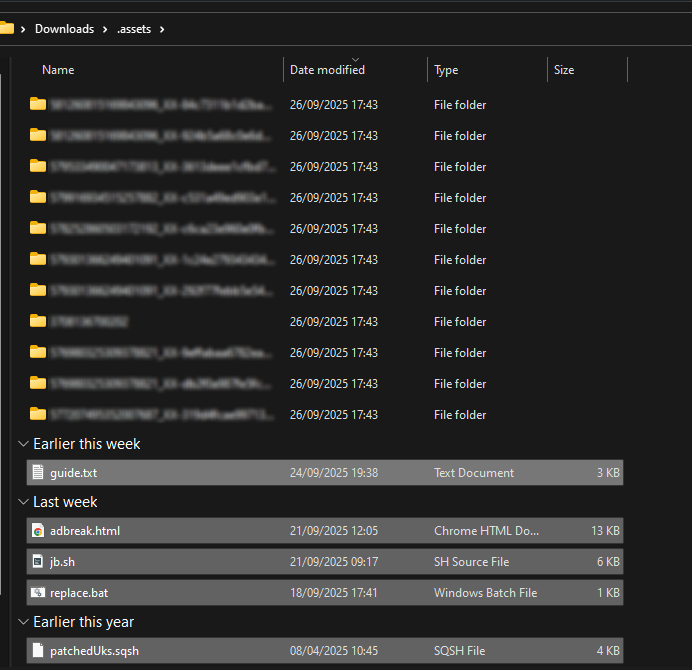
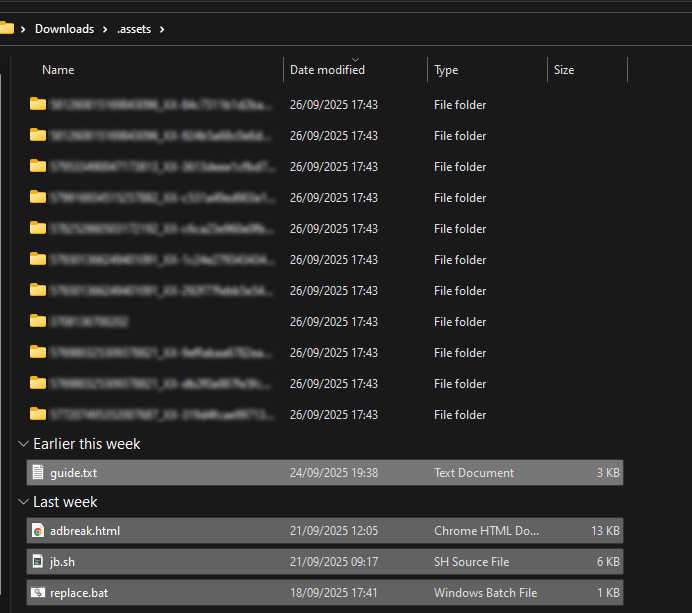
Add warning modals, post-jb notices, OTA advice, unjb advice

diff --git a/static/assets/js/global.js b/static/assets/js/global.js
@@ -20,31 +20,48 @@ const registerServiceWorker = async () => {
 registerServiceWorker();
 
 //Modal Functions
-function showDialog(id) {
-    const modal = document.getElementById(id);
-    if (!modal) {
-        console.error(`Modal with ID "${id}" not found!`);
-        return;
-    }
+function showDialog(title, description) {
+    //Build Modal (from Scratch)
+    const overlay = document.createElement("div");
+    overlay.classList.add("modal-overlay");
+    document.body.appendChild(overlay);
 
-    const overlay = modal.closest(".modal-overlay");
-    if (overlay) {
-        overlay.classList.add("active");
-        document.body.style.overflow = "hidden";
+    const modal = document.createElement("div");
+    modal.classList.add("modal-container");
+    overlay.appendChild(modal);
 
-        const escHandler = (e) => {
-            if (e.key === "Escape") {
-                closeDialog(id);
-                window.removeEventListener("keydown", escHandler);
-            }
-        };
-        window.addEventListener("keydown", escHandler);
-    }
+    const header = document.createElement("div");
+    header.classList.add("modal-header");
+    const mTitle = document.createElement("h2");
+    mTitle.innerHTML = title; header.appendChild(mTitle);
+    modal.appendChild(header);
+
+    const body = document.createElement("div");
+    body.classList.add("modal-body");
+    const mDesc = document.createElement("p");
+    mDesc.innerHTML = description; body.appendChild(mDesc);
+    modal.appendChild(body);
+
+    const footer = document.createElement("div");
+    footer.classList.add("modal-footer");
+    const close = document.createElement("button");
+    close.onclick = () => closeDialog(); close.innerHTML = "CLOSE"; footer.appendChild(close);
+    modal.appendChild(footer);
+
+    overlay.classList.add("active");
+    document.body.style.overflow = "hidden";
+
+    const escHandler = (e) => {
+        if (e.key === "Escape") {
+            closeDialog();
+            window.removeEventListener("keydown", escHandler);
+        }
+    };
+    window.addEventListener("keydown", escHandler);
 }
 
-function closeDialog(id) {
-    const modal = document.getElementById(id);
-    if (!modal) return;
+function closeDialog() {
+    const modal = document.querySelector(".modal-container");
 
     const overlay = modal.closest(".modal-overlay");
     if (overlay) {
@@ -55,9 +72,6 @@ function closeDialog(id) {
 
 document.addEventListener("click", (e) => {
     if (e.target.classList.contains("modal-overlay")) {
-        const activeModal = e.target.querySelector(".modal-container");
-        if (activeModal) {
-            closeDialog(activeModal.id);
-        }
+        closeDialog();
     }
 });

diff --git a/static/assets/js/fluent_guide.js b/static/assets/js/fluent_guide.js
@@ -7,6 +7,14 @@
 
 class Guide {
     constructor(guideID="guide", endLink=null, endText=null) {
+        const readLander = localStorage.getItem("readLander");
+        if(!readLander) {
+            showDialog(
+                "Halt!",
+                `We have detected <b>you have not</b> read the <a href="/jailbreaking/">jailbreaking lander</a> informational page yet, and are on a page with a guide.<br>Please head over there now, and this warning will clear. <p class="caution"><b>Do NOT expect any support otherwise.</b></p>`
+            );
+        };
+
         this.guideID = guideID;
         this.endText = endText;
         this.endLink = endLink;

diff --git a/static/jailbreakFinder.js b/static/jailbreakFinder.js
@@ -1,3 +1,12 @@
+//Alert Modal
+const readLander = localStorage.getItem("readLander");
+if(!readLander) {
+    showDialog(
+        "Halt!",
+        `We have detected <b>you have not</b> read the <a href="/jailbreaking/">jailbreaking lander</a> informational page yet, and are trying to find your jailbreak.<br>Please head over there now, and the warning will clear. <p class="caution"><b>Do NOT expect any support otherwise.</b></p>`
+    );
+};
+
 window.info = {};
 let current = document.querySelector("#home");
 

diff --git a/content/jailbreaking/_index.md b/content/jailbreaking/_index.md
@@ -30,6 +30,11 @@ Here are some important things to note before you begin. This information applie
     After the jailbreak, many different tools get <i>automagically</i> installed for you, which for the most part, you will not have to interact with. This includes update blocking so the jailbreak does not get removed, a package manager, etc. Once you're jailbroken you can begin installing your own software right out of the park using the inbuilt package manager. You will be guided through this in the "What's Next?" section, after you jailbroke.
 </p>
 
+<p class="warning" style="filter: hue-rotate(150deg);">
+    <b>Can I remove the Jailbreak?</b><br>
+    Yes. If you wish to remove the jailbreak, you must run <a href="./ota.sh" download>this</a> scriptlet (<a href="whats-next/installing-homebrew.html">'scriptlet' term definition</a>), factory reset the device, then push an update (whether it be to the same firmware, you can download an update file from <a href="https://ftvdb.com/kindle/firmware/">FTVDB</a>, place it in the Kindle's root and hit the update button). After this, <b>every trace</b> of the Jailbreak will be removed.
+</p>
+
 <p class="caution">
     <b>Who can I ask for help?</b><br>
     When in doubt, please consult someone on the official <a href="https://discord.kindlemodding.org/">KindleModding Discord</a>, or <a href="https://discord.gg/yWPHHbrp7h">KindleTweaks</a>. <a href="https://www.reddit.com/r/kindlejailbreak/">r/kindlejailbreak</a> on Reddit is also an available option, although a community resource. <b>Do not perform dangerous actions such as a Factory Reset without an experienced person's advice (e.g., KindleModding Helpers)</b>.
@@ -63,3 +68,7 @@ Also, for those who are curious (<b>or do not actually know what a jailbreak can
 - Certain tweaks could cause <i>lag/performance issues</i>, but this isn't because of jailbreak itself.
 - Everyone will know you as "that weird person who jailbroke their Kindle and plays doom on it" (did I mention it plays doom?)
 - You will inevitably deal with vexing people who have not read the above page which outlines basic jailbreaking concepts.
+
+<script>
+    if(!localStorage.getItem("readLander")) localStorage.setItem("readLander", true);
+</script>

diff --git a/content/jailbreaking/Nosebleed/__index.md b/content/jailbreaking/Nosebleed/__index.md
@@ -57,7 +57,7 @@ Nosebleed is a jailbreak released on 02/03/2026 by hhhhhhhhh.
         <div class="step">
             <h2>Extract & Copy</h2>
             <div class="stepContent">
-                <p>Plug in the Kindle, Extract <code>nosebleed.zip</code> on your PC, and copy the three files within to your Kindle's root (top folder when connected).</p>
+                <p>Plug in the Kindle, Extract <code>nosebleed.zip</code> on your PC, and copy the two files within to your Kindle's root (top folder when connected).</p>
                 <img src="./copy_assets.png" /> 
             </div>
         </div>
@@ -83,9 +83,17 @@ Nosebleed is a jailbreak released on 02/03/2026 by hhhhhhhhh.
             </div>
         </div>
         <div class="step">
-            <h2>Done</h2>
+            <h2>After Jailbreaking...</h2>
             <div class="stepContent">
-                <p>Once the jailbreak has completed, continue to the post-jailbreak stage.</p>
+                <div class="tip">
+                    <b>What's Next?</b><br>
+                    Commence to the <a href="../whats-next">What's Next</a> section to read about installing scriptlets, homebrew, and KOReader.<br>Read the <b>whole section</b> thoroughly.
+                </div>
+                <div class="caution">
+                    You may now <b>delete</b> any filler files. Updates have been automatically blocked for you.<br><br>
+                    Before you do this, also <b>remove any existing update files with a <code>.bin</code> extension</b>, if they exist in the Kindle's root.
+                </div>
+                <p>Have fun! :)</p>
             </div>
         </div>
     </div>

diff --git a/content/jailbreaking/recovering-from-a-reset.md b/content/jailbreaking/recovering-from-a-reset.md
@@ -6,18 +6,11 @@ weight: 12
 ---
 
 # Recovering From a Reset
-Factory resetting a jailbroken Kindle with renametobin (`Rename`) left enabled will make it impossible to install either the hotfix or official update files. To fix this, follow these steps:
 
-1. Follow the [MRPI and KUAL installation instructions](./post-jailbreak/installing-kual-mrpi/)
-2. Install the Hotfix through MRPI (copy the [hotfix](../jailbreaking/post-jailbreak/setting-up-a-hotfix/) file to the `mrpackages` folder and type `;log mrpi` into the search bar)
-3. Click the `Run Hotfix` booklet  
-2. Follow the [Disable OTA instructions](./post-jailbreak/disable-ota.html)
-3. Instead of choosing the `Rename` option, use the `Restore` option
+Factory resetting a jailbroken Kindle means it has updates blocked and you will never be able to install official update files (<b>crucial</b> for removing all traces of a jailbreak on a Kindle). See the <a href="/jailbreaking/">jailbreaking lander</a> for more information.
 
-<p class="note">
-If you come from an un-jailbreak attempt, you can also force an update by copying the firmware update file to your Kindle and, while still plugged in, hold down the power button until it restarts
-</p>
+In order to restore the Kindle's ability to update, please install <a href="./ota.sh" download>this</a> scriptlet.
 
-<p class="caution">
-Remember that performing a factory reset followed by an update will remove any jailbreak remnants
-</p>
+<div class="note">
+    Scriptlets, and how to install them, are explained <a href="/jailbreaking/whats-next/installing-homebrew.html">here</a>.
+</div>

diff --git a/content/jailbreaking/SpringBreak/__index.md b/content/jailbreaking/SpringBreak/__index.md
@@ -24,7 +24,7 @@ You can read the writeup [here](https://penguins184.xyz/blog/springbreak-jailbre
 - A PC, Cable, Kindle.
 - Unzipping Software (E.g., <a href="https://7-zip.org/">7-Zip</a>)
 - A registered, supported model and firmware, as you have been led here by the <b><a href="/jailbreak-wizard.html">Jailbreaking Wizard</a></b>.
-- You have read <a href="/jailbreaking">this overview</a> and <a href="/jailbreaking/prevent-auto-update/">filled the device</a>, if applicable
+- You have read <a href="/jailbreaking">this overview</a>
 - A Wi-Fi connection.
 
 > [!INFO]
@@ -154,6 +154,19 @@ You can read the writeup [here](https://penguins184.xyz/blog/springbreak-jailbre
                     If you don't do this, the Kindle will take upwards of <b>15 minutes</b> to boot.
                 </p>
                 <img src="./cleaning.png">
+            </div>
+        </div>
+        <div class="step">
+            <h2>After Jailbreaking...</h2>
+            <div class="stepContent">
+                <div class="tip">
+                    <b>What's Next?</b><br>
+                    Commence to the <a href="../whats-next">What's Next</a> section to read about installing scriptlets, homebrew, and KOReader.<br>Read the <b>whole section</b> thoroughly.
+                </div>
+                <div class="caution">
+                    If they exist, <b>remove any existing update files with a <code>.bin</code> extension</b>, in the Kindle's root.
+                </div>
+                <p>Have fun! :)</p>
             </div>
         </div>
     </div>

diff --git a/content/jailbreaking/whats-next/installing-homebrew.md b/content/jailbreaking/whats-next/installing-homebrew.md
@@ -8,7 +8,7 @@ weight: 1
 # Installing Homebrew
 
 <p class="note">
-    Before you go through the next guides to install apps, it is <b>crucial</b> you understand <i>how</i>.
+    Before you go through the next guides to install apps, it is <b>imperative</b> you understand <i>how</i>.
 </p>
 
 ## Scriptlets
@@ -32,6 +32,16 @@ If you are familiar with package managers such as <code>apt-get</code>, this wil
 <p class="tip">
     Psst... You can find a list of popular Kindle homebrew <a href="https://github.com/KindleTweaks/Awesome-Kindle">here!</a>.
 </p>
+
+## KOPlugins
+
+KOReader has an extendable plugins mechanism, as is documented on <a href="https://koreader.rocks">koreader.rocks</a>.
+
+Some fan-favourite homebrew, such as <a href="https://github.com/doctorhetfield-cmd/simpleui.koplugin">SimpleUI</a> and <a href="https://github.com/AnthonyGress/zen_ui.koplugin">ZenUI</a> takes shape as a KOPlugin.
+
+To install them manually, you copy them into <code>/koreader/plugins</code> when you plug the Kindle into a computer.
+
+Otherwise, they can also be installed on-device with an AppStore KOPlugin (e.g., <a href="https://github.com/ultimatejimmy/storefront.koplugin">Storefront</a>).
 
 ## Notes
 

diff --git a/content/jailbreaking/WinterBreak/__index.md b/content/jailbreaking/WinterBreak/__index.md
@@ -116,6 +116,20 @@ WinterBreak is a jailbreak which was released on New Year's Day 2025 by [Hackerd
                 <img src="./winterbreak_run.png" />
             </div>
         </div>
+        <div class="step">
+            <h2>After Jailbreaking...</h2>
+            <div class="stepContent">
+                <div class="tip">
+                    <b>What's Next?</b><br>
+                    Commence to the <a href="../whats-next">What's Next</a> section to read about installing scriptlets, homebrew, and KOReader.<br>Read the <b>whole section</b> thoroughly.
+                </div>
+                <div class="caution">
+                    You may now <b>delete</b> any filler files. Updates have been automatically blocked for you.<br><br>
+                    Before you do this, also <b>remove any existing update files with a <code>.bin</code> extension</b>, if they exist in the Kindle's root.
+                </div>
+                <p>Have fun! :)</p>
+            </div>
+        </div>
     </div>
     <div class="buttons">
         <button id="prev">Previous Step</button>

diff --git a/content/jailbreaking/Sanctuary/__index.md b/content/jailbreaking/Sanctuary/__index.md
@@ -132,6 +132,20 @@ Sanctuary is a jailbreak released on 30/06/2026 by [Ava](https://ko-fi.com/yubai
                 <img src="./jailbreak.png">
             </div>
         </div>
+        <div class="step">
+            <h2>After Jailbreaking...</h2>
+            <div class="stepContent">
+                <div class="tip">
+                    <b>What's Next?</b><br>
+                    Commence to the <a href="../whats-next">What's Next</a> section to read about installing scriptlets, homebrew, and KOReader.<br>Read the <b>whole section</b> thoroughly.
+                </div>
+                <div class="caution">
+                    You may now <b>delete</b> any filler files. Updates have been automatically blocked for you.<br><br>
+                    Before you do this, also <b>remove any existing update files with a <code>.bin</code> extension</b>, if they exist in the Kindle's root.
+                </div>
+                <p>Have fun! :)</p>
+            </div>
+        </div>
     </div>
     <div class="buttons">
         <button id="prev">Previous Step</button>

diff --git a/content/jailbreaking/Vera/__index.md b/content/jailbreaking/Vera/__index.md
@@ -146,6 +146,20 @@ It will be ported to `KS3(NFL)` and `KSC` firmwares <=5.19.6 in the future.
                 <img src="./restarting.png" />
             </div>
         </div>
+        <div class="step">
+            <h2>After Jailbreaking...</h2>
+            <div class="stepContent">
+                <div class="tip">
+                    <b>What's Next?</b><br>
+                    Commence to the <a href="../whats-next">What's Next</a> section to read about installing scriptlets, homebrew, and KOReader.<br>Read the <b>whole section</b> thoroughly.
+                </div>
+                <div class="caution">
+                    You may now <b>delete</b> any filler files. Updates have been automatically blocked for you.<br><br>
+                    Before you do this, also <b>remove any existing update files with a <code>.bin</code> extension</b>, if they exist in the Kindle's root.
+                </div>
+                <p>Have fun! :)</p>
+            </div>
+        </div>
     </div>
     <div class="buttons">
         <button id="prev">Previous Step</button>

diff --git a/content/jailbreaking/AdBreak/__index.md b/content/jailbreaking/AdBreak/__index.md
@@ -121,6 +121,20 @@ It is based on [CVE-2012-3748](https://scarybeastsecurity.blogspot.com/2017/05/o
                 <img src="./demo.png" />
             </div>
         </div>
+        <div class="step">
+            <h2>After Jailbreaking...</h2>
+            <div class="stepContent">
+                <div class="tip">
+                    <b>What's Next?</b><br>
+                    Commence to the <a href="../whats-next">What's Next</a> section to read about installing scriptlets, homebrew, and KOReader.<br>Read the <b>whole section</b> thoroughly.
+                </div>
+                <div class="caution">
+                    You may now <b>delete</b> any filler files. Updates have been automatically blocked for you.<br><br>
+                    Before you do this, also <b>remove any existing update files with a <code>.bin</code> extension</b>, if they exist in the Kindle's root.
+                </div>
+                <p>Have fun! :)</p>
+            </div>
+        </div>
     </div>
     <div class="buttons">
         <button id="prev">Previous Step</button>
